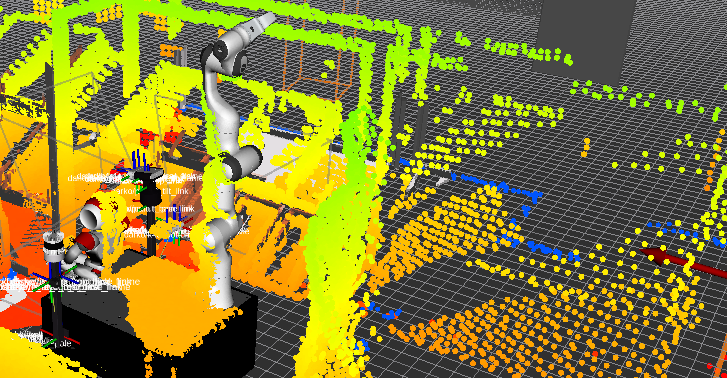
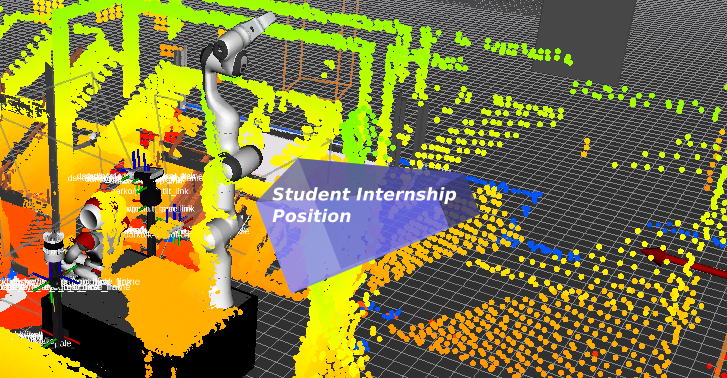
Two more open positions @ MIRMI

Changed region(s): [[0.3329, 0.4074, 0.6657, 0.7857]]

diff --git a/lab_mirmi/index.html b/lab_mirmi/index.html
@@ -105,17 +105,91 @@
 
   <picture>
     
-    <source media="(max-width: 46.25em)" srcset="/uploads/openpositions/RVIZ_test_smu_huddbb5aa0df7b5338d5dc9bdffebfc701_162918_848x443_fill_box_top_3.png 848w, /uploads/openpositions/RVIZ_test_smu_huddbb5aa0df7b5338d5dc9bdffebfc701_162918_565x420_fill_box_left_3.png 565w, /uploads/openpositions/RVIZ_test_smu_huddbb5aa0df7b5338d5dc9bdffebfc701_162918_360x318_fill_box_center_3.png 360w" />
+    <source media="(max-width: 46.25em)" srcset="/uploads/openpositions/RVIZ_test_smu_hu251ef851f90f3e87bc080bf0f9fb4212_176032_848x443_fill_box_top_3.png 848w, /uploads/openpositions/RVIZ_test_smu_hu251ef851f90f3e87bc080bf0f9fb4212_176032_565x420_fill_box_left_3.png 565w, /uploads/openpositions/RVIZ_test_smu_hu251ef851f90f3e87bc080bf0f9fb4212_176032_360x318_fill_box_center_3.png 360w" />
     
     
       
         
-        <img src="/uploads/openpositions/RVIZ_test_smu_huddbb5aa0df7b5338d5dc9bdffebfc701_162918_1170x450_fill_box_top_3.png" alt="Develop complete simulation for Manipulator with Impact dynamics" />
+        <img src="/uploads/openpositions/RVIZ_test_smu_hu251ef851f90f3e87bc080bf0f9fb4212_176032_1170x450_fill_box_top_3.png" alt="Develop complete simulation for Manipulator with Impact dynamics" />
       
     
   </picture>
 <div class="project-hover">
           <div class="project-caption"><div class="break-word project-title">Apply for Internship | Simulation development for Manipulator with impact dynamics</div><div class="break-word project-type">C&#43;&#43;, Matlab skills</div></div>
+        </div>
+      </a>
+    </li><li class="project">
+      <a href="https://classic.fsmb.de/fsmb/service/basama-hiwi/entry/22668.iframe">
+
+
+  
+  
+  
+  
+
+  
+    
+      
+      
+    
+      
+      
+    
+      
+      
+    
+  
+
+  <picture>
+    
+    <source media="(max-width: 46.25em)" srcset="/uploads/openpositions/embedded_pcb_external_hu38ebca42aa87f77dfb1079571be8ef86_185357_600x443_fill_box_top_3.png 600w, /uploads/openpositions/embedded_pcb_external_hu38ebca42aa87f77dfb1079571be8ef86_185357_200x420_fill_box_left_3.png 200w, /uploads/openpositions/embedded_pcb_external_hu38ebca42aa87f77dfb1079571be8ef86_185357_200x318_fill_box_center_3.png 200w" />
+    
+    
+      
+        
+        <img src="/uploads/openpositions/embedded_pcb_external_hu38ebca42aa87f77dfb1079571be8ef86_185357_650x550_fill_box_top_3.png" alt="Embedded software features development for custom BLDC motor driver" />
+      
+    
+  </picture>
+<div class="project-hover">
+          <div class="project-caption"><div class="break-word project-title">Apply for Internship | Embedded software features development for custom BLDC motor driver</div><div class="break-word project-type">Electronics, C, Matlab skills</div></div>
+        </div>
+      </a>
+    </li><li class="project">
+      <a href="https://classic.fsmb.de/fsmb/service/basama-hiwi/entry/22667.iframe">
+
+
+  
+  
+  
+  
+
+  
+    
+      
+      
+    
+      
+      
+    
+      
+      
+    
+  
+
+  <picture>
+    
+    <source media="(max-width: 46.25em)" srcset="/uploads/openpositions/bldc_testrig_external_hu9f0af1bb39fde93771c0a51cd6556057_120260_600x443_fill_box_top_3.png 600w, /uploads/openpositions/bldc_testrig_external_hu9f0af1bb39fde93771c0a51cd6556057_120260_200x420_fill_box_left_3.png 200w, /uploads/openpositions/bldc_testrig_external_hu9f0af1bb39fde93771c0a51cd6556057_120260_200x318_fill_box_center_3.png 200w" />
+    
+    
+      
+        
+        <img src="/uploads/openpositions/bldc_testrig_external_hu9f0af1bb39fde93771c0a51cd6556057_120260_450x550_fill_box_top_3.png" alt="BLDC actuator back-drivability hacking" />
+      
+    
+  </picture>
+<div class="project-hover">
+          <div class="project-caption"><div class="break-word project-title">Apply for Internship | BLDC actuator back-drivability hackingBLDC motor driver</div><div class="break-word project-type">Electronics, C, Matlab skills</div></div>
         </div>
       </a>
     </li><li class="project">
@@ -182,7 +256,7 @@
 
 <script src="/js/app.min.73c432fe0b47673b1de799337549b0cb8eb618707cdfa2ab30871018507f75f4.js"></script>
 
-<script type="application/javascript">
+<script>
 var doNotTrack = false;
 if (!doNotTrack) {
 	window.ga=window.ga||function(){(ga.q=ga.q||[]).push(arguments)};ga.l=+new Date;

diff --git a/index.html b/index.html
@@ -1,7 +1,7 @@
 <!doctype html>
 <html class=" no-js" lang="en-us">
   <head>
-	<meta name="generator" content="Hugo 0.119.0">
+	<meta name="generator" content="Hugo 0.121.2">
     <meta charset="utf-8">
     <meta http-equiv="x-ua-compatible" content="ie=edge">
     <meta name="viewport" content="width=device-width, initial-scale=1">
@@ -183,7 +183,7 @@
 
 <script src="/js/app.min.73c432fe0b47673b1de799337549b0cb8eb618707cdfa2ab30871018507f75f4.js"></script>
 
-<script type="application/javascript">
+<script>
 var doNotTrack = false;
 if (!doNotTrack) {
 	window.ga=window.ga||function(){(ga.q=ga.q||[]).push(arguments)};ga.l=+new Date;

diff --git a/about/index.html b/about/index.html
@@ -108,7 +108,7 @@
 
 <script src="/js/app.min.73c432fe0b47673b1de799337549b0cb8eb618707cdfa2ab30871018507f75f4.js"></script>
 
-<script type="application/javascript">
+<script>
 var doNotTrack = false;
 if (!doNotTrack) {
 	window.ga=window.ga||function(){(ga.q=ga.q||[]).push(arguments)};ga.l=+new Date;

diff --git a/contact/index.html b/contact/index.html
@@ -108,7 +108,7 @@
 
 <script src="/js/app.min.73c432fe0b47673b1de799337549b0cb8eb618707cdfa2ab30871018507f75f4.js"></script>
 
-<script type="application/javascript">
+<script>
 var doNotTrack = false;
 if (!doNotTrack) {
 	window.ga=window.ga||function(){(ga.q=ga.q||[]).push(arguments)};ga.l=+new Date;

diff --git a/404.html b/404.html
@@ -85,7 +85,7 @@
 
 <script src="/js/app.min.73c432fe0b47673b1de799337549b0cb8eb618707cdfa2ab30871018507f75f4.js"></script>
 
-<script type="application/javascript">
+<script>
 var doNotTrack = false;
 if (!doNotTrack) {
 	window.ga=window.ga||function(){(ga.q=ga.q||[]).push(arguments)};ga.l=+new Date;
